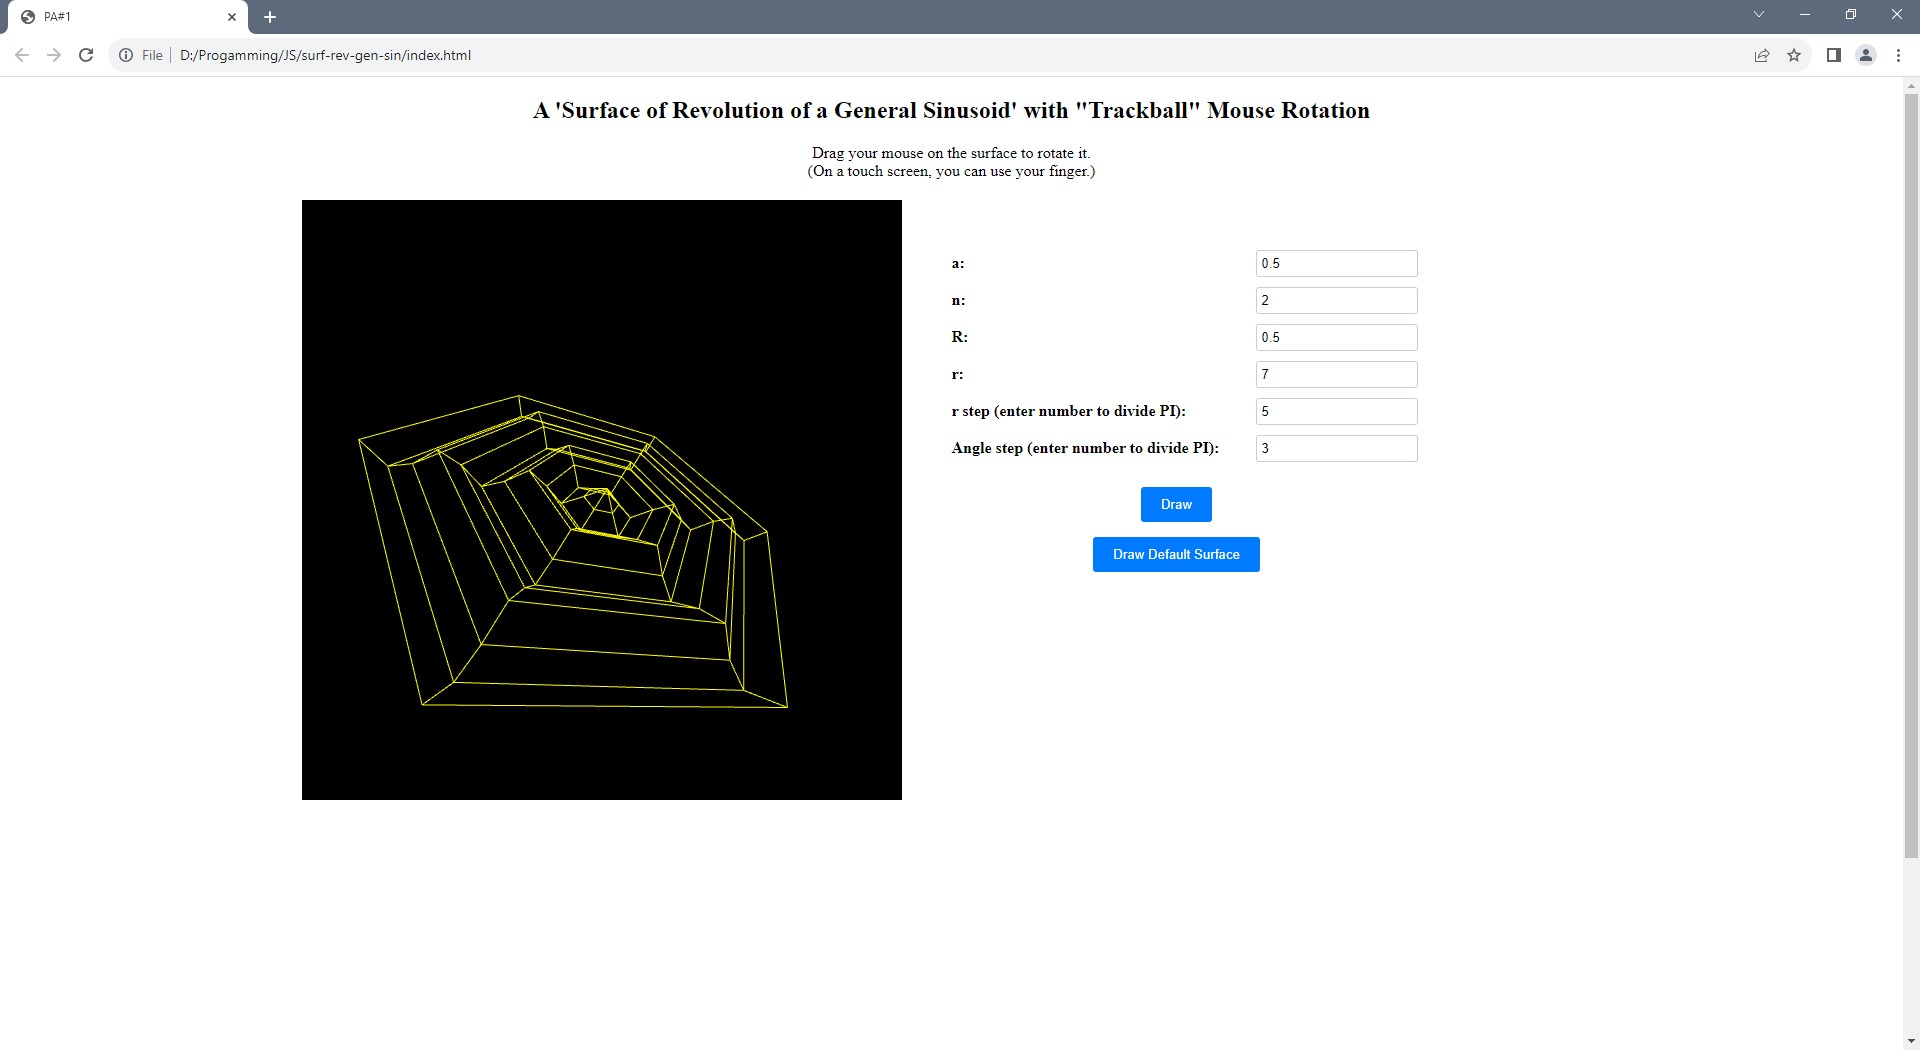
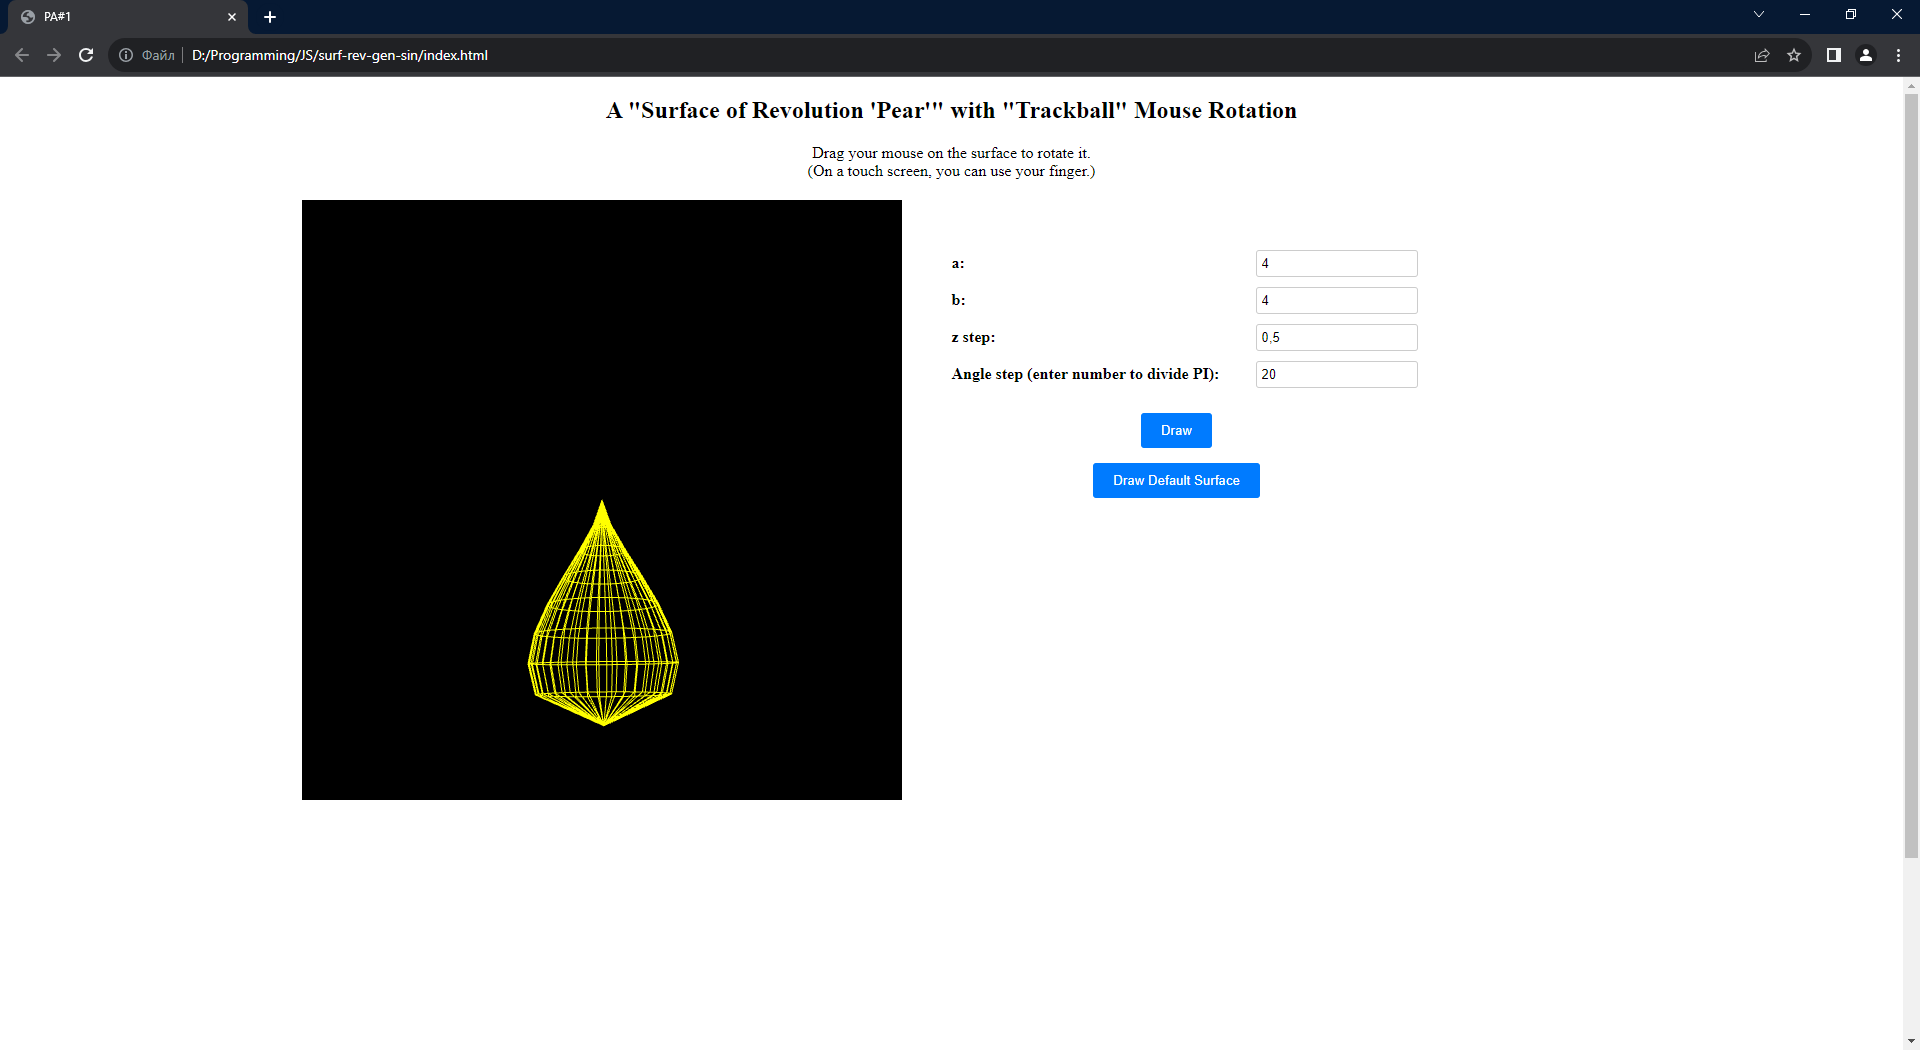
Updated variant from 17 to 18 (#1)
Changed surface from Surface of Revolution of a General Sinusoid to Surface of Revolution "Pear"

Changed region(s): [[0.0, 0.0, 1.0, 0.1829], [0.1875, 0.3962, 0.4062, 0.701], [0.5, 0.3048, 0.6562, 0.5486]]

diff --git a/main.js b/main.js
@@ -10,13 +10,13 @@ let parameters = {};
 let countHorizontalLines = 0;
 let countVerticalLines = 0;
 
+const maxAngle = 2 * Math.PI;
+
 function initParameters() {
     parameters = {
-        a: 0.5,
-        n: 0.5,
-        R: 0.5,
-        r: 7,
-        rStep: 10,
+        a: 3,
+        b: 1,
+        zStep: 0.1,
         angleStep: 5
     };
 
@@ -25,10 +25,10 @@ function initParameters() {
     }
 }
 
-// Lambda functions to calculate vertex of 'Surface of Revolution of a General Sinusoid'
-const X = (r, angle) => r * Math.cos(angle);
-const Y = (r, angle) => r * Math.sin(angle);
-const Z = (x, y) => parameters.a * Math.cos((parameters.n * Math.PI) / parameters.R * Math.sqrt(x * x + y * y));
+// Lambda functions to calculate vertex of 'Surface of Revolution of a "Pear"'
+const X = (rZ, angle) => rZ * Math.sin(angle);
+const Y = (rZ, angle) => rZ * Math.cos(angle);
+const RZ = (z) => (z * Math.sqrt(z * (parameters.a - z))) / parameters.b
 
 // Constructor
 function Model(name) {
@@ -81,13 +81,13 @@ function ShaderProgram(name, program) {
 }
 
 
-/* Draws a 'Surface of Revolution of a General Sinusoid' */
+/* Draws a 'Surface of Revolution "Pear"' */
 function draw() { 
     gl.clearColor(0,0,0,1);
     gl.clear(gl.COLOR_BUFFER_BIT | gl.DEPTH_BUFFER_BIT);
     
     /* Set the values of the projection transformation */
-    let projection = m4.perspective(Math.PI / 2, 1, 1, 20); 
+    let projection = m4.perspective(Math.PI / 3, 1, 1, 20); 
     
     /* Get the view matrix from the SimpleRotator object.*/
     let modelView = spaceball.getViewMatrix();
@@ -131,10 +131,8 @@ function redraw() {
  */
 function setNewParameters() {
     parameters.a = getValueByElementId('a');
-    parameters.n = getValueByElementId('n');
-    parameters.R = getValueByElementId('R');
-    parameters.r = getValueByElementId('r');
-    parameters.rStep = getValueByElementId('rStep');
+    parameters.b = getValueByElementId('b');
+    parameters.zStep = getValueByElementId('zStep');
     parameters.angleStep = getValueByElementId('angleStep');
 }
 
@@ -159,38 +157,37 @@ function getValueByElementId(elementId) {
 }
 
 /**
- * Creates surface data by explicit equation of 'Surface of Revolution of a General Sinusoid' 
+ * Creates surface data by explicit equation of 'Surface of Revolution "Pear"' 
  */
 function CreateSurfaceData()
 {
     let vertexList = [];
+
+    countHorizontalLines = 0;
+    countVerticalLines = 0;
     
-    let rStep = Math.PI / parameters.rStep;
     let angleStep = Math.PI / parameters.angleStep;
 
-    countHorizontalLines = Math.floor(parameters.r / rStep) + 1;
-
-    let maxAngle = 2 * Math.PI;
-    countVerticalLines = Math.floor(maxAngle / angleStep) + 1;
-    
     // Horizontal lines
-    for (let tempR = 0; tempR < parameters.r; tempR += rStep) {
+    for (let z = 0; z <= parameters.a; z = +(parameters.zStep + z).toFixed(2)) {
         for (let angle = 0; angle <= maxAngle; angle += angleStep) {
-            let x = X(tempR, angle);
-            let y = Y(tempR, angle);
-            let z = Z(x, y);
+            let rZ = RZ(z);
+            let x = X(rZ, angle);
+            let y = Y(rZ, angle);
             vertexList.push(x, y, z);
         }
+        countHorizontalLines += 1;
     }
 
     // Vertical lines
     for (let angle = 0; angle <= maxAngle; angle += angleStep) {
-        for (let tempR = 0; tempR <= parameters.r; tempR += rStep) {
-            let x = X(tempR, angle);
-            let y = Y(tempR, angle);
-            let z = Z(x, y);
+        for (let z = 0; z <= parameters.a; z = +(parameters.zStep + z).toFixed(2)) {
+            let rZ = RZ(z);
+            let x = X(rZ, angle);
+            let y = Y(rZ, angle);
             vertexList.push(x, y, z);
         }
+        countVerticalLines += 1;
     }
 
     return vertexList;
@@ -208,7 +205,7 @@ function initGL() {
     shProgram.iModelViewProjectionMatrix = gl.getUniformLocation(prog, "ModelViewProjectionMatrix");
     shProgram.iColor                     = gl.getUniformLocation(prog, "color");
 
-    surface = new Model('Surface of Revolution of a General Sinusoid');
+    surface = new Model('Surface of Revolution "Pear"');
     initParameters();
     setBufferData(surface);
 

diff --git a/index.html b/index.html
@@ -13,7 +13,7 @@
 <body onload="init()">
 
     <div id="text-container">
-        <h2>A "Surface of Revolution of a General Sinusoid" with "Trackball" Mouse Rotation</h2>
+        <h2>A "Surface of Revolution 'Pear'" with "Trackball" Mouse Rotation</h2>
         <p id="message">Drag your mouse on the surface to rotate it.<br>
         (On a touch screen, you can use your finger.)</p>
     </div>
@@ -30,23 +30,13 @@
     </div>
     
     <div>
-        <label for="n">n:</label>
-        <input type="number" id="n" name="n">
+        <label for="b">b:</label>
+        <input type="number" id="b" name="b">
     </div>
     
     <div>
-        <label for="R">R:</label>
-        <input type="number" id="R" name="R">
-    </div>
-    
-    <div>
-        <label for="r">r:</label>
-        <input type="number" id="r" name="r">
-    </div>
-    
-    <div>
-        <label for="rStep">r step (enter number to divide PI):</label>
-        <input type="number" id="rStep" name="rStep">
+        <label for="zStep">z step:</label>
+        <input type="number" id="zStep" name="zStep">
     </div>
     
     <div>

diff --git a/README.md b/README.md
@@ -4,7 +4,10 @@ Project that accompanies VGGI credit module.
 
 Visit vggi-kpi.blogspot.com for more information
 
-## Surface of Revolution of a General Sinusoid
+## Surface of Revolution "Pear"
+
+Gif animation of example of work with surface
+![gif-animation](Example_of_work.gif)
 
 Example of surface when you start the program for the first time:
 ![default-surface](default-surface.png)
